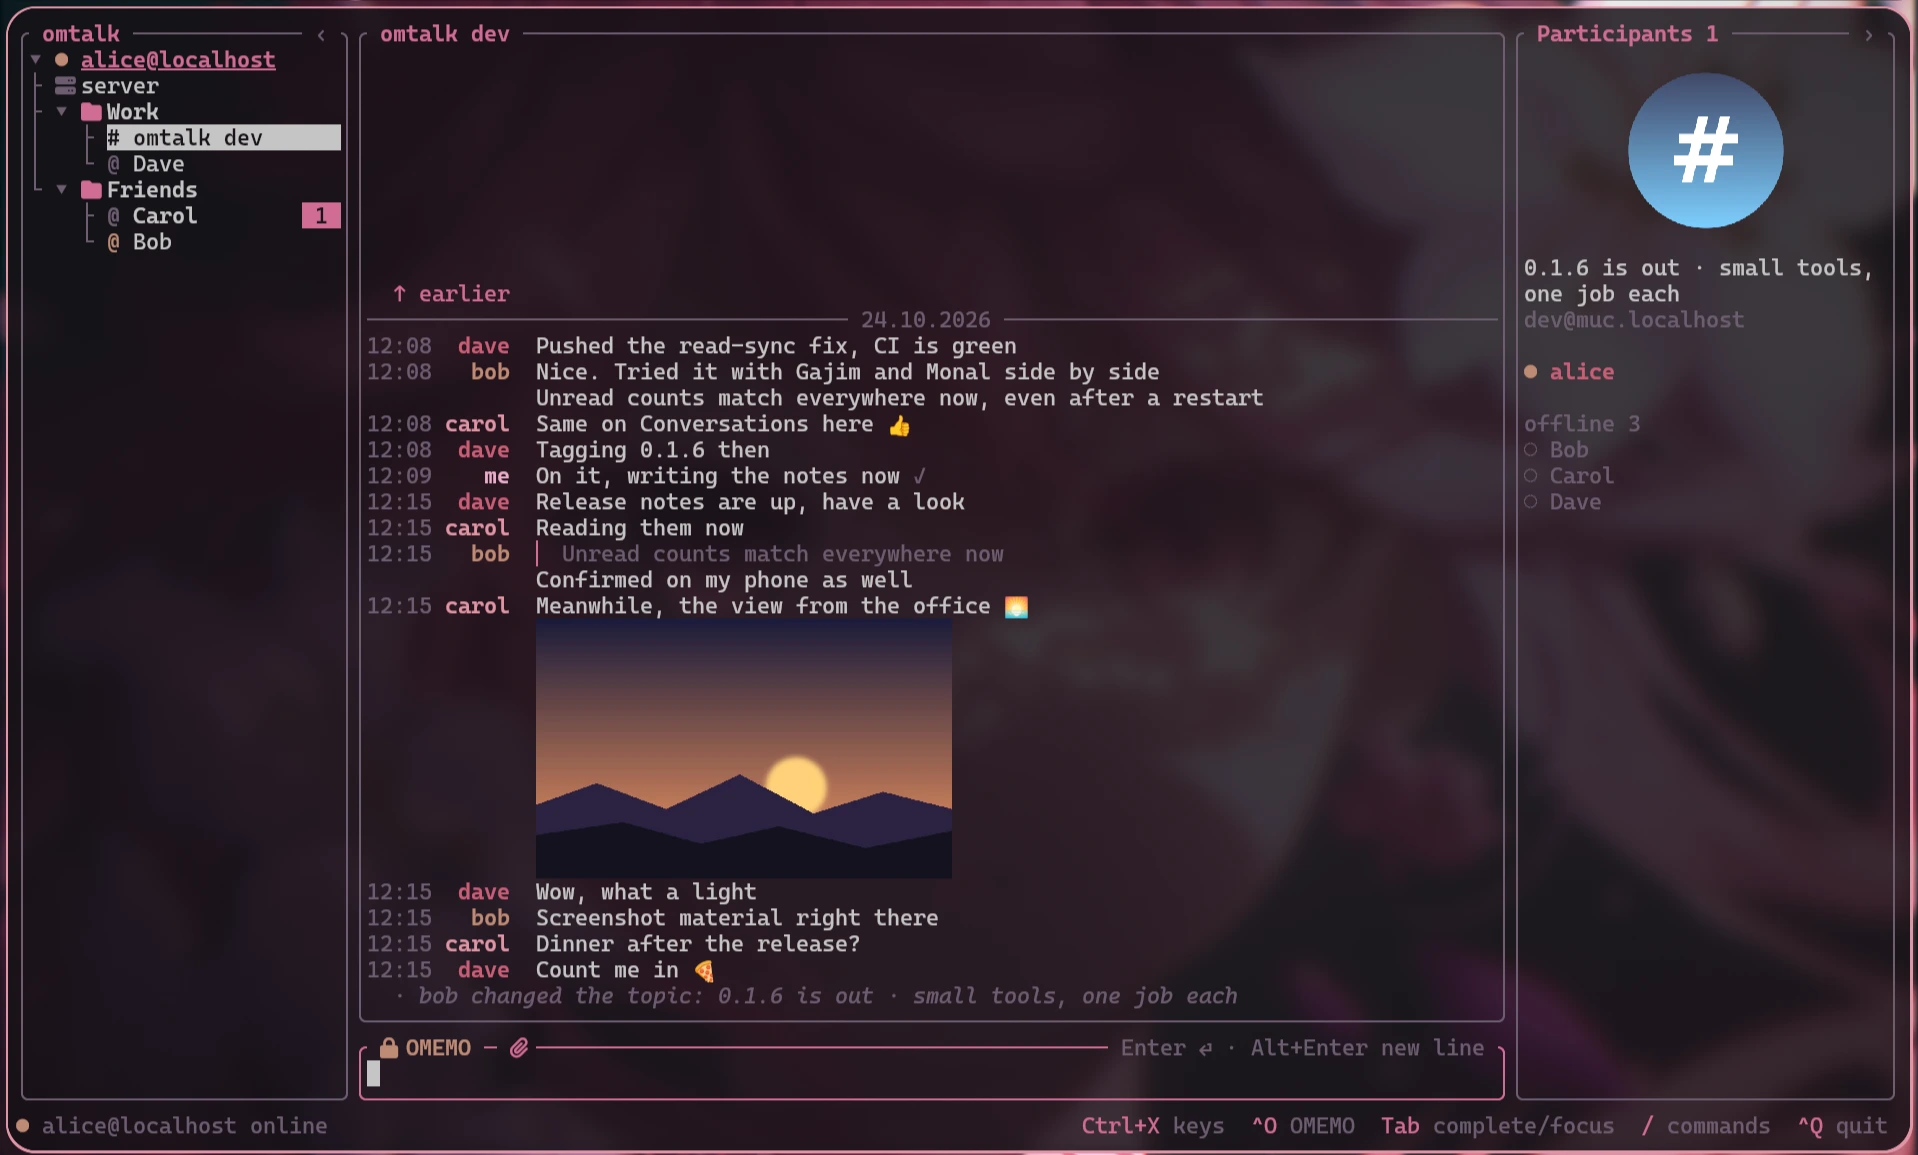
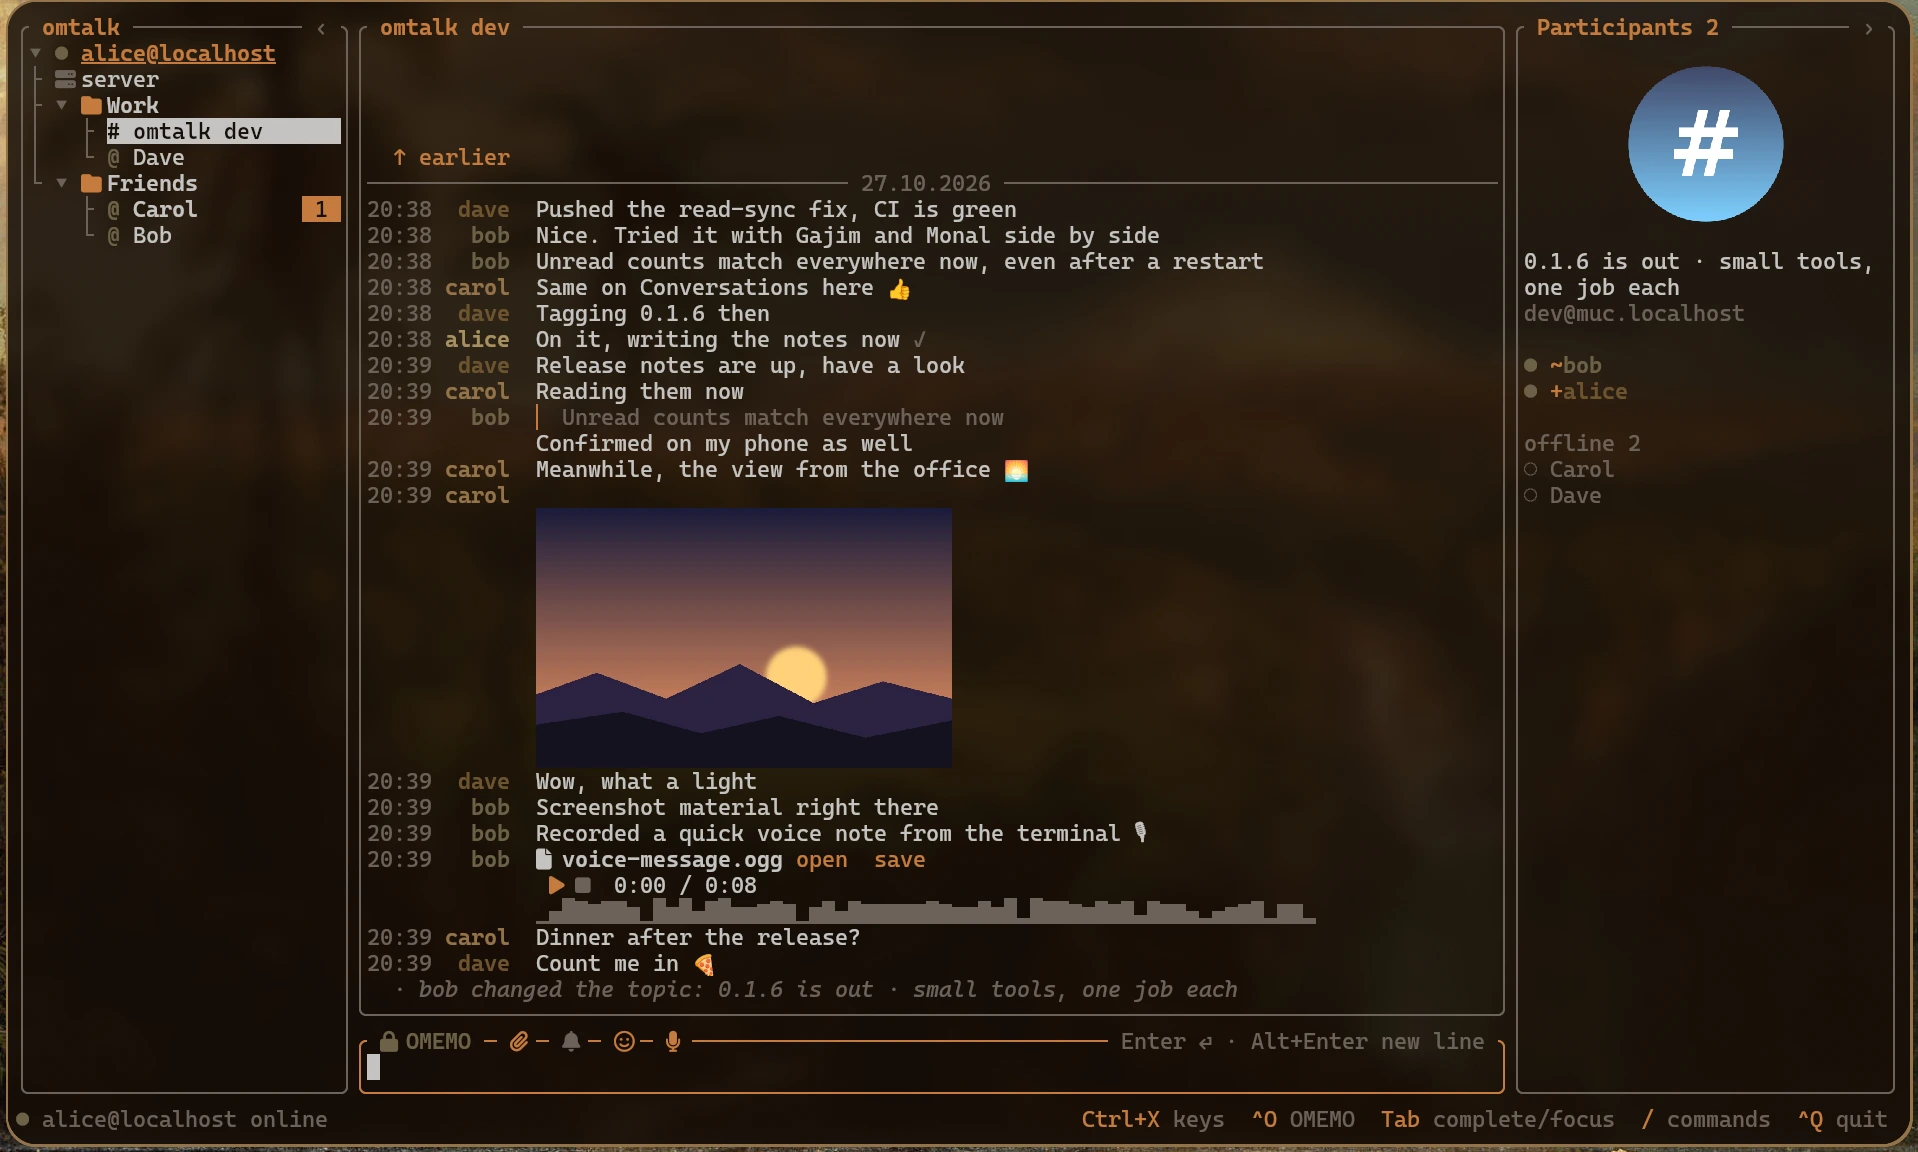
README screenshots: a room with a picture and a voice message, and the settings window

diff --git a/README.ru.md b/README.ru.md
@@ -26,9 +26,9 @@
 - [Разработка и тестирование](#разработка-и-тестирование)
 - [Лицензия](#лицензия)
 
-![Групповой чат в omtalk: папки слева, присланная картинка, аватарка и тема комнаты справа](docs/screenshot-room.webp)
+![Групповой чат в omtalk: папки слева, присланная картинка и голосовое сообщение с волной, аватарка и тема комнаты справа](docs/screenshot-room.webp)
 
-![Личный чат в omtalk: галки «прочитано», реакция, аватарка собеседника и ключи OMEMO](docs/screenshot-chat.webp)
+![Окно настроек omtalk: интерфейс, уведомления и уведомления этого чата](docs/screenshot-settings.webp)
 
 ## Установка и первый запуск
 

diff --git a/README.md b/README.md
@@ -26,9 +26,9 @@ accounts, and keyboard and mouse controls.
 - [Development and testing](#development-and-testing)
 - [License](#license)
 
-![A group chat in omtalk: folders on the left, a shared picture, the room's avatar and topic on the right](docs/screenshot-room.webp)
+![A group chat in omtalk: folders on the left, a shared picture and a voice message with its waveform, the room's avatar and topic on the right](docs/screenshot-room.webp)
 
-![A direct chat in omtalk: read ticks, a reaction, the contact's avatar and OMEMO keys](docs/screenshot-chat.webp)
+![The settings window in omtalk: interface, notifications and this chat's own notifications](docs/screenshot-settings.webp)
 
 ## Install and first run
 
